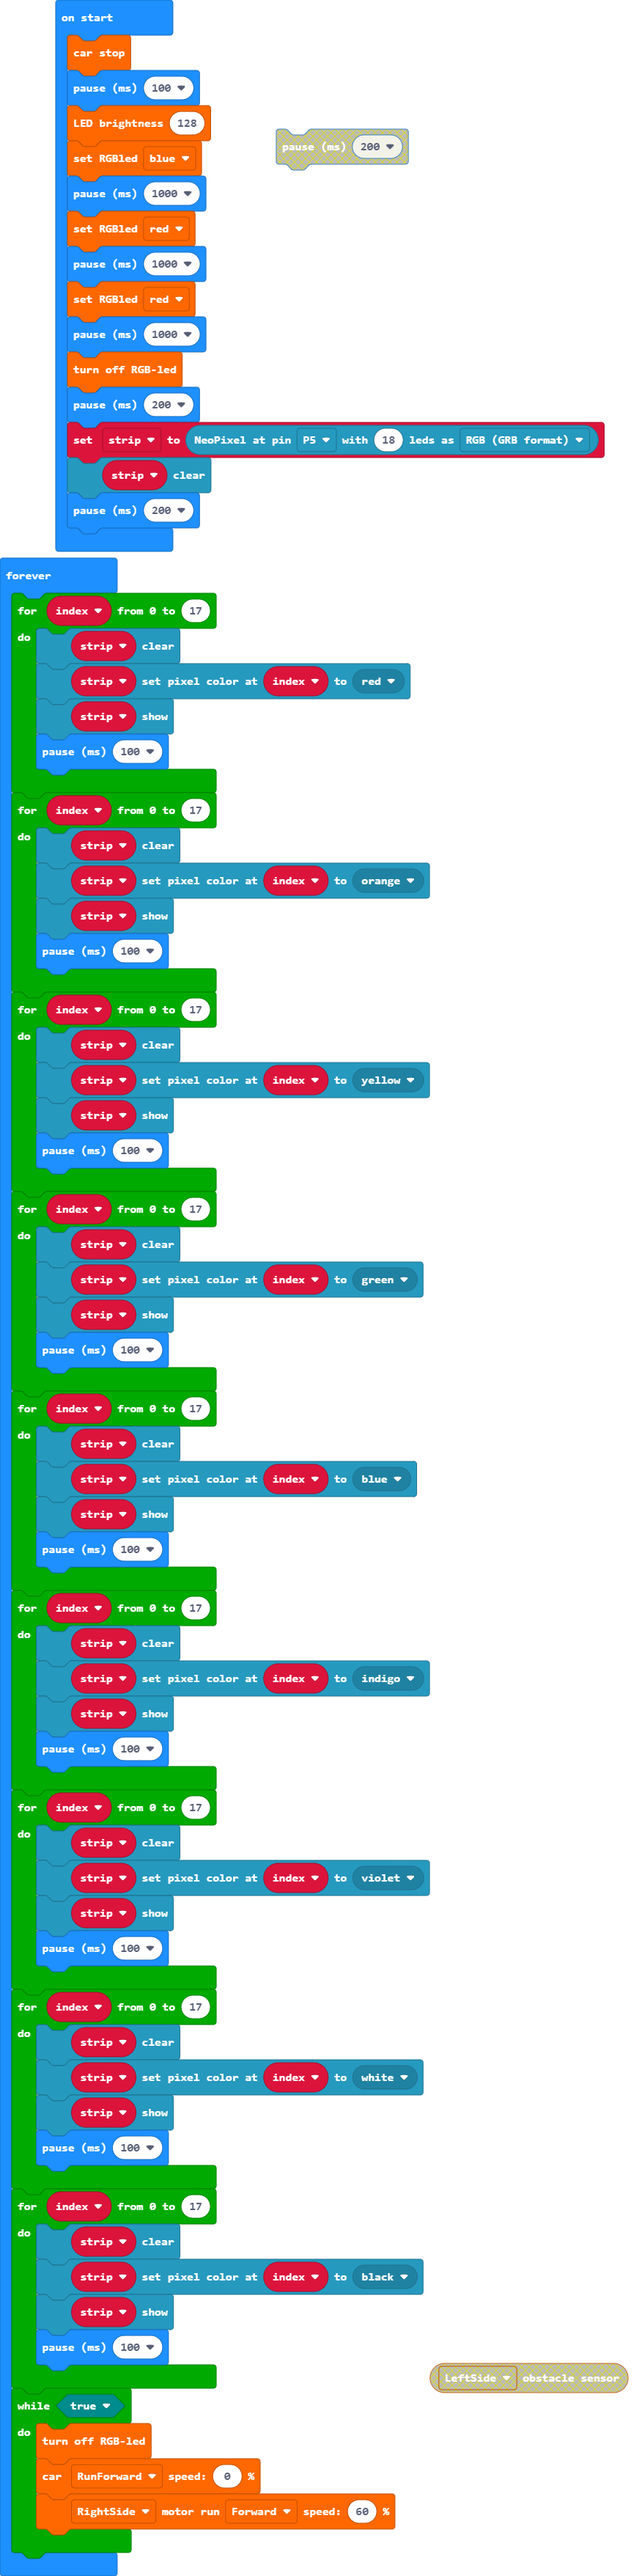
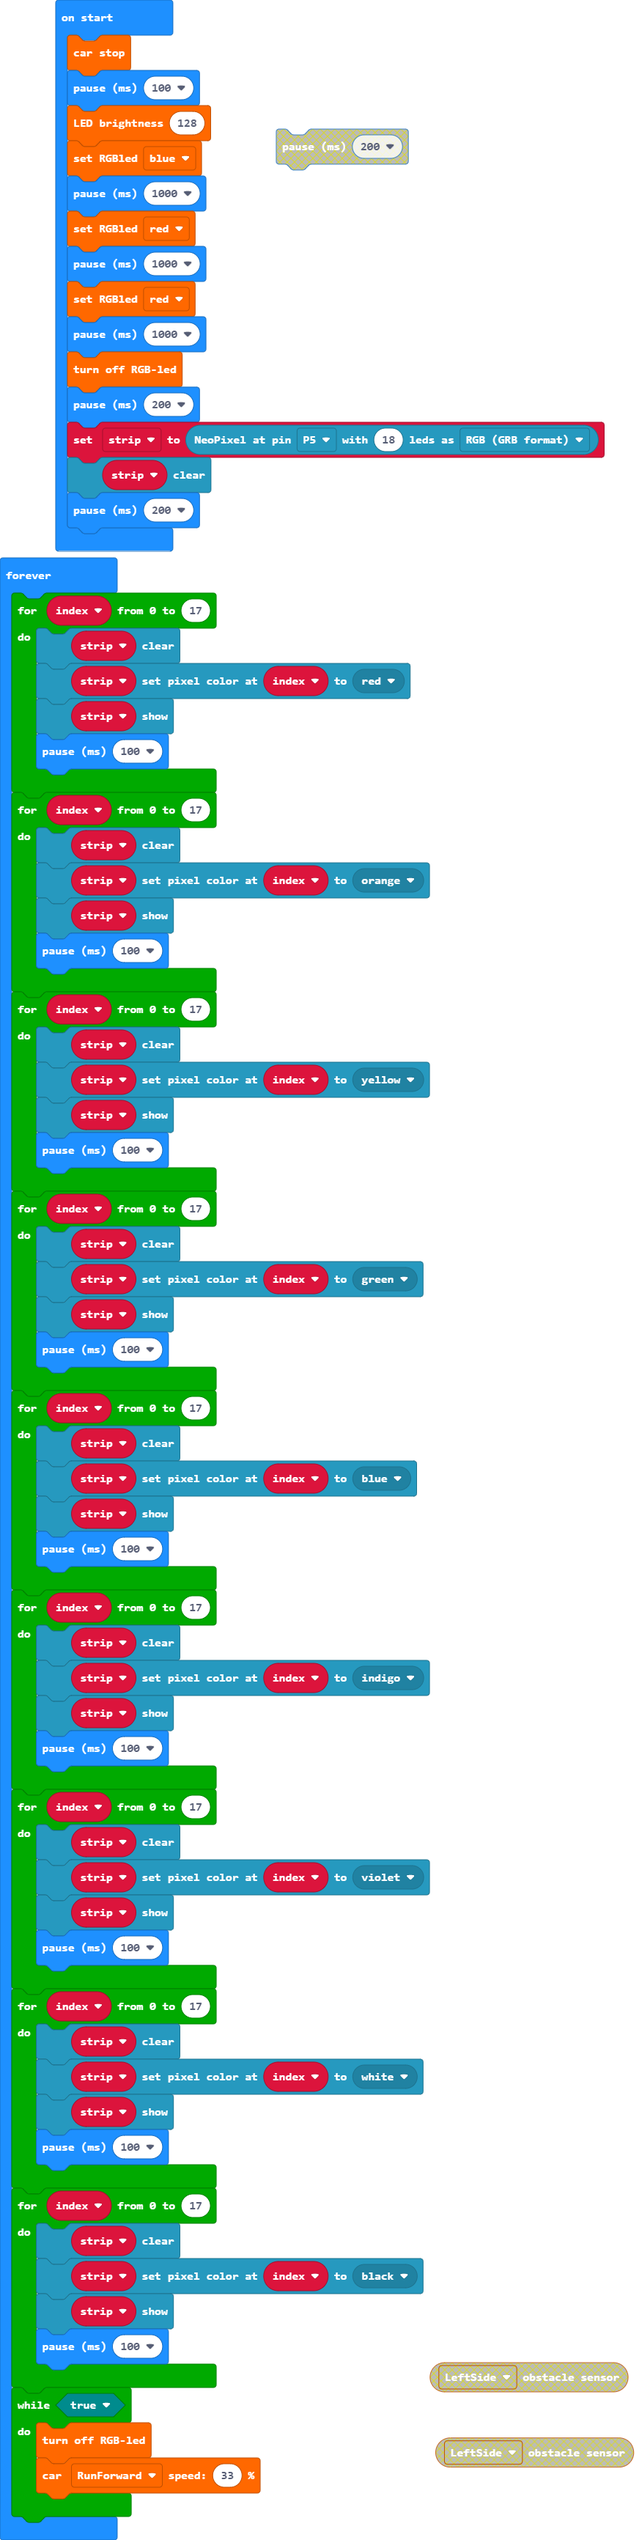
Update main.blocks, main.ts

Changed region(s): [[0.0, 0.0, 0.9555, 0.9974], [0.6781, 0.9039, 0.9863, 0.9974], [0.4315, 0.0312, 0.6473, 0.0623]]

diff --git a/main.ts b/main.ts
@@ -69,7 +69,6 @@ basic.forever(function () {
     }
     while (true) {
         k_Bit.OFFLed()
-        k_Bit.run(DIR.RunForward, 0)
-        k_Bit.Motor(MotorObs.RightSide, MotorDir.Forward, 60)
+        k_Bit.run(DIR.RunForward, 33)
     }
 })
